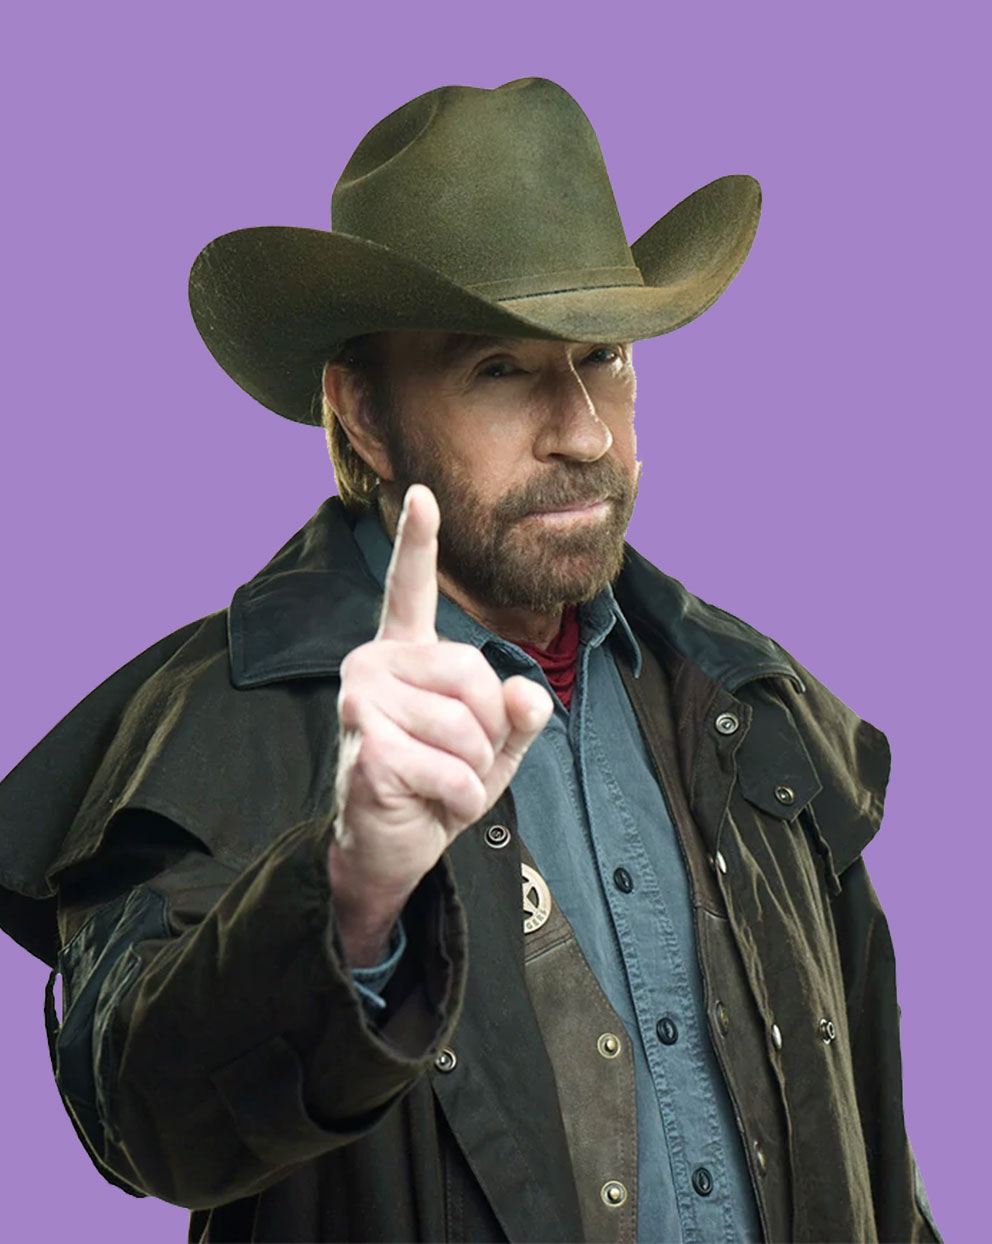
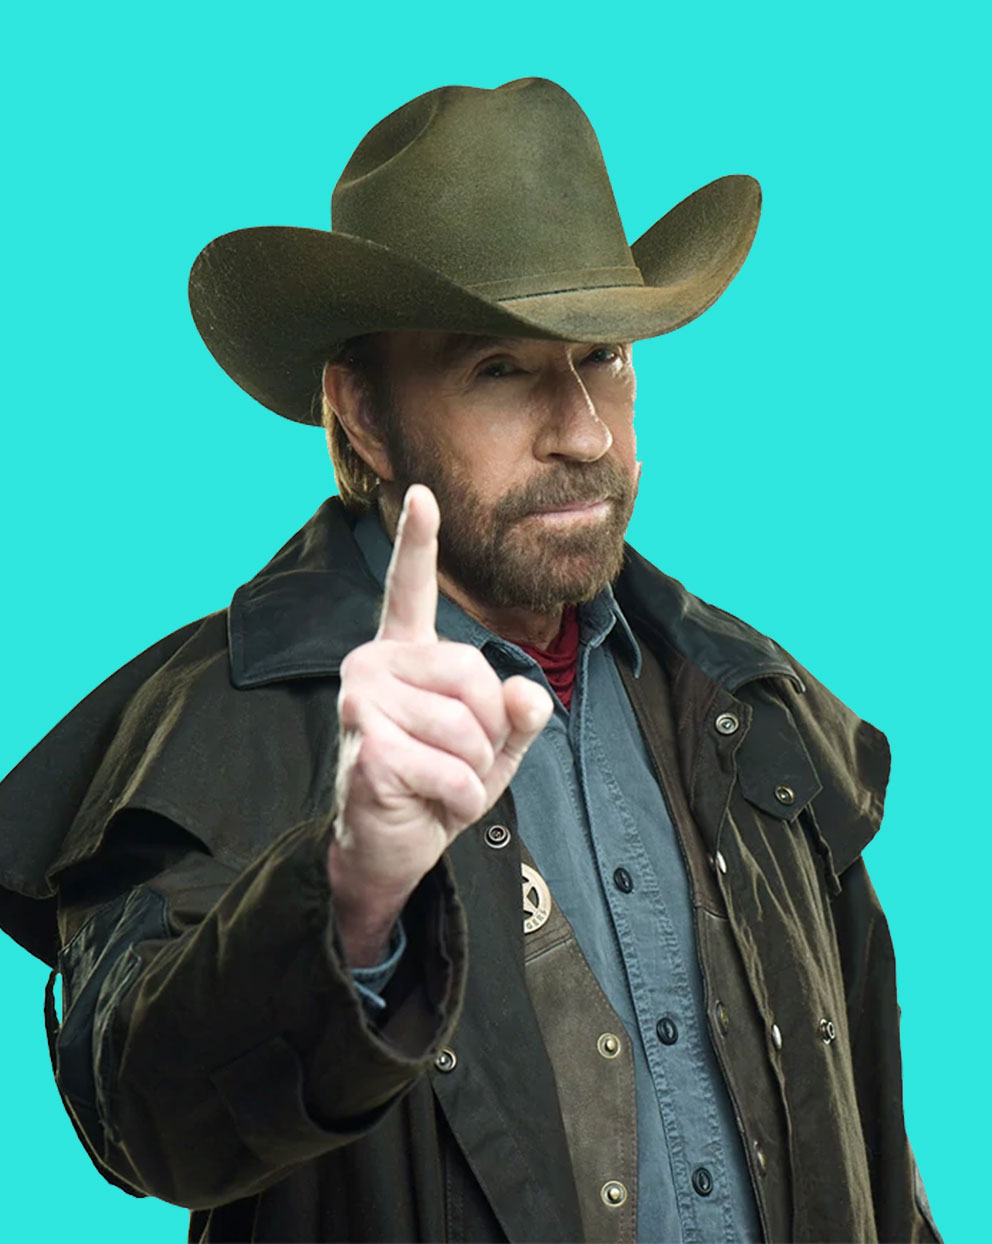
images and gradient animation completion

diff --git a/css/styles.css b/css/styles.css
@@ -65,7 +65,7 @@ a {
   text-decoration: none; }
 
 ::selection {
-  background-color: #ff3366;
+  background-color: #aa1a3e;
   color: #fff; }
 
 .opening {
@@ -212,7 +212,7 @@ p {
   transition: all 0.2s; }
 
 .btn--primary {
-  background-color: #ff3366;
+  background-color: #aa1a3e;
   color: #fff;
   padding: 2rem 2rem;
   font-weight: 400;
@@ -220,19 +220,19 @@ p {
   .btn--primary::after {
     background-color: #fff;
     padding: 2rem 2rem;
-    color: #ff3366; }
+    color: #aa1a3e; }
 
 .btn--secondary {
-  background-color: #ff3366;
+  background-color: #aa1a3e;
   color: #fffafa; }
   .btn--secondary::after {
-    background-color: #ff3366; }
+    background-color: #aa1a3e; }
 
 .btn-text, .btn-text:link, .btn-text:visited {
   text-transform: uppercase;
   text-decoration: none;
-  color: #ff3366;
-  border-left: 2px solid #ff3366;
+  color: #aa1a3e;
+  border-left: 2px solid #aa1a3e;
   padding: 1rem;
   display: inline-block;
   transition: all 0.2s;
@@ -263,7 +263,7 @@ p {
   left: 0;
   transition: all 0.5s;
   transform: translateX(-100%);
-  background: #ff3366;
+  background: #aa1a3e;
   z-index: -1; }
 
 .header {
@@ -283,7 +283,7 @@ p {
       height: 80vh;
       position: absolute;
       top: 10%;
-      left: 15%;
+      left: -10%;
       width: 80%;
       overflow: hidden;
       box-shadow: 0 1rem 10rem black; }
@@ -301,10 +301,12 @@ p {
     justify-content: space-between;
     align-items: flex-start;
     min-height: 70vh;
-    flex: 1 1 60%; }
+    flex: 1 1 50%;
+    z-index: 20; }
     .header__text-credit {
-      align-self: flex-end;
+      align-self: flex-start;
       opacity: 0.8;
+      padding-left: 10rem;
       font-size: 2rem; }
       .header__text-credit a {
         text-decoration: line-through;
@@ -313,23 +315,23 @@ p {
           text-decoration: none; }
     .header__text-heading {
       font-size: 15rem;
-      transform: translateX(-20%); }
+      transform: translateX(10%); }
     .header__text-subheading {
       font-family: "Roboto", sans-serif;
       font-weight: 500;
       opacity: 0.6;
-      padding-left: 2rem; }
+      align-self: center; }
 
 .input {
   display: flex;
   flex-direction: row;
-  justify-content: flex-start;
+  justify-content: flex-end;
   align-items: center;
   background: #fffbfb;
   color: #777;
   z-index: 5;
   width: 90%;
-  transform: translate(-20%, 110%);
+  transform: translate(20%, 110%);
   box-shadow: 0 1rem 10rem black; }
   .input__text {
     font-weight: 300;
@@ -375,12 +377,24 @@ p {
   top: 0;
   right: 0;
   bottom: 0;
-  min-height: 70vh; }
+  min-height: 70vh;
+  background-image: linear-gradient(242deg, #9c0d68 16%, #eea031 65%); }
 
 .chuck-hero--two {
-  background-image: linear-gradient(242deg, #15af88 16%, #6c429a 67%); }
+  background-image: linear-gradient(242deg, #244766 16%, #20dfd5 67%);
+  opacity: 0; }
 
 .chuck-hero--three {
-  background-image: linear-gradient(242deg, #eea031 18%, #930560 67%); }
+  background-image: linear-gradient(242deg, #0066cc 18%, #3ec8f1 67%);
+  opacity: 0; }
+
+.chuck-img-1 {
+  z-index: 10; }
+
+.chuck-img-2 {
+  z-index: 5; }
+
+.chuck-img-3 {
+  z-index: 1; }
 
 /* */

diff --git a/animation.js b/animation.js
@@ -1,62 +1,52 @@
 (function tweenMe() {
-  let tl = new TimelineLite({
+  let tl = gsap.timeline({
+    defaults: { ease: "power2.inOut" },
     onComplete: function () {
       this.restart();
     },
   });
 
-  TweenLite.set(".chuck-img-2", { scale: 2, transformOrign: "100% 100%" });
-  TweenLite.set(".chuck-img-3", { scale: 2, transformOrign: "100% 100%" });
+  gsap.set(".chuck-img-2", { scale: 1.5, transformOrign: "100% 100%" });
+  gsap.set(".chuck-img-3", { scale: 1.5, transformOrign: "100% 100%" });
 
   tl.delay(2);
 
   tl.add([
-    TweenLite.to(".chuck-img-1", 0.5, { opacity: 0, ease: Power0.easeNone }),
-    TweenLite.to(".generate", 0.5, {
-      backgroundColor: "#6C429B",
+    gsap.to(".chuck-img-1", 0.5, { opacity: 0, ease: Power0.easeNone }),
+    gsap.to(".generate", 0.5, {
+      backgroundColor: "#244766  ",
       ease: Power0.easeNone,
     }),
-    TweenLite.to(".chuck-hero--two", 1, {
-      opacity: 1,
-      backgroundImage: "linear-gradient(242deg, #15af88 16%, #6c429a 67%)",
-
-      ease: Power0.easeNone,
-    }),
-    TweenLite.to(".chuck-img-2", 5, { scale: 1, ease: Power1.easeOut }),
+    gsap.to(".chuck-hero--two", 1, { opacity: 1, ease: Power2.easeNone }),
+    gsap.to(".chuck-img-2", 5, { scale: 1, ease: Power1.easeOut }),
   ]);
   tl.add([
-    TweenLite.to(".chuck-img-2", 0.5, { opacity: 0, ease: Power0.easeNone }),
-    TweenLite.to(".generate", 0.5, {
-      backgroundColor: "#930560",
+    gsap.to(".chuck-img-2", 0.5, { opacity: 0, ease: Power0.easeNone }),
+    gsap.to(".generate", 0.5, {
+      backgroundColor: "#0066cc",
       ease: Power0.easeNone,
     }),
-    TweenLite.to(".chuck-hero--three", 1, {
+    gsap.to(".chuck-hero--three", 1, {
       opacity: 1,
-      backgroundImage: "linear-gradient(242deg, #15af88 16%, #6c429a 67%)",
-
       ease: Power0.easeNone,
     }),
-    TweenLite.to(".chuck-img-1", 0.5, { scale: 1.2, ease: Power0.easeNone }),
-    TweenLite.to(".chuck-img-3", 5, { scale: 1, ease: Power1.easeOut }),
+    gsap.to(".chuck-img-1", 0.5, { scale: 1.5, ease: Power0.easeNone }),
+    gsap.to(".chuck-img-3", 5, { scale: 1, ease: Power1.easeOut }),
   ]);
   tl.add([
-    TweenLite.to(".chuck-img-1", 0.5, { opacity: 1, ease: Power0.easeNone }),
-    TweenLite.to(".chuck-hero--three", 1, {
-      opacity: 1,
-      backgroundImage: "linear-gradient(242deg, #15af88 16%, #6c429a 67%)",
-
+    gsap.to(".chuck-img-1", 0.5, { opacity: 1, ease: Power0.easeNone }),
+    gsap.to(".chuck-hero--three", 1, {
+      opacity: 0,
       ease: Power0.easeNone,
     }),
-    TweenLite.to(".generate", 0.5, {
-      backgroundColor: "#0551B4",
+    gsap.to(".generate", 0.5, {
+      backgroundColor: "#9c0d68",
       ease: Power0.easeNone,
     }),
-    TweenLite.to(".chuck-hero--two", 0.5, {
-      opacity: 1,
-      backgroundImage: "linear-gradient(242deg, #15af88 16%, #6c429a 67%)",
-
+    gsap.to(".chuck-hero--two", 0.5, {
+      opacity: 0,
       ease: Power0.easeNone,
     }),
-    TweenLite.to(".chuck-img-1", 5, { scale: 1, ease: Power1.easeOut }),
+    gsap.to(".chuck-img-1", 5, { scale: 1, ease: Power1.easeOut }),
   ]);
 })();

diff --git a/index.html b/index.html
@@ -26,25 +26,6 @@
     <div class="container">
       <div class="section-header">
         <div class="header">
-          <div class="header__image">
-            <div class="header__image-sliders">
-              <img
-                src="./img/chuck-1.jpg"
-                class="cchuck-img-1"
-                alt="I am chuck norris Image"
-              />
-              <img
-                src="./img/chuck-2.jpg"
-                class="chuck-img-2"
-                alt="work is ready for chuck norris"
-              />
-              <img
-                src="./img/chuck-3.jpg"
-                class="chuck-img-3"
-                alt="leg day skip chuck norris"
-              />
-            </div>
-          </div>
           <div class="header__text">
             <p class="header__text-credit">
               Who made this?
@@ -65,6 +46,27 @@
               </button>
             </div>
           </div>
+          <div class="header__image">
+            <div class="header__image-sliders">
+              <img
+                src="./img/chuck-1.jpg"
+                class="chuck-img-1"
+                alt="I am chuck norris Image"
+              />
+              <img
+                src="./img/chuck-2.jpg"
+                class="chuck-img-2"
+                alt="work is ready for chuck norris"
+              />
+              <img
+                src="./img/chuck-3.jpg"
+                class="chuck-img-3"
+                alt="leg day skip chuck norris"
+              />
+            </div>
+          </div>
+
+          <div class="chuck-hero chuck-hero--one"></div>
           <div class="chuck-hero chuck-hero--two"></div>
           <div class="chuck-hero chuck-hero--three"></div>
         </div>

diff --git a/sass/layout/_header.scss b/sass/layout/_header.scss
@@ -15,7 +15,7 @@
       height: 80vh;
       position: absolute;
       top: 10%;
-      left: 15%;
+      left: -10%;
       width: 80%;
       overflow: hidden;
       box-shadow: 0 1rem 10rem black;
@@ -35,10 +35,12 @@
   &__text {
     @include flex(column, space-between, flex-start);
     min-height: 70vh;
-    flex: 1 1 60%;
+    flex: 1 1 50%;
+    z-index: 20;
     &-credit {
-      align-self: flex-end;
+      align-self: flex-start;
       opacity: 0.8;
+      padding-left: 10rem;
       font-size: 2rem;
       a {
         text-decoration: line-through;
@@ -50,24 +52,24 @@
     }
     &-heading {
       font-size: 15rem;
-      transform: translateX(-20%);
+      transform: translateX(10%);
     }
     &-subheading {
       font-family: $font-secondary;
       font-weight: 500;
       opacity: 0.6;
-      padding-left: 2rem;
+      align-self: center;
     }
   }
 }
 
 .input {
-  @include flex(row, flex-start, center);
+  @include flex(row, flex-end, center);
   background: rgb(255, 251, 251);
   color: $color-grey-dark;
   z-index: 5;
   width: 90%;
-  transform: translate(-20%, 110%);
+  transform: translate(20%, 110%);
   box-shadow: 0 1rem 10rem black;
   &__text {
     font-weight: 300;

diff --git a/sass/pages/_home.scss b/sass/pages/_home.scss
@@ -31,11 +31,24 @@
   right: 0;
   bottom: 0;
   min-height: 70vh;
+  background-image: linear-gradient(242deg, #9c0d68 16%, #eea031 65%);
 }
 
 .chuck-hero--two {
-  background-image: linear-gradient(242deg, #15af88 16%, #6c429a 67%);
+  background-image: linear-gradient(242deg, #244766 16%, #20dfd5 67%);
+  opacity: 0;
 }
 .chuck-hero--three {
-  background-image: linear-gradient(242deg, #eea031 18%, #930560 67%);
+  background-image: linear-gradient(242deg, #0066cc 18%, #3ec8f1 67%);
+  opacity: 0;
+}
+
+.chuck-img-1 {
+  z-index: 10;
+}
+.chuck-img-2 {
+  z-index: 5;
+}
+.chuck-img-3 {
+  z-index: 1;
 }

diff --git a/sass/abstracts/_variables.scss b/sass/abstracts/_variables.scss
@@ -15,8 +15,8 @@
 }
 
 //Colors
-$color-primary: #ff3366;
-$color-primary-light: #fc5e85;
+$color-primary: #aa1a3e;
+$color-primary-light: #f8a73d;
 $color-primary-dark: #d82351;
 $color-secondary: #1ea799;
 $color-secondary-light: #2ec4b6;
